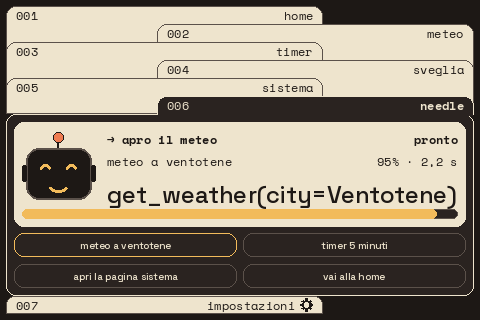
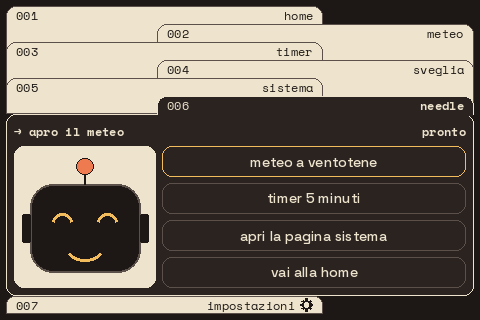
Needle: togli il pannello della frase e allarga bot e bottoni
Claude-Session: https://claude.ai/code/session_01WWnpzY7QcYTMKwWAA59yd3

diff --git a/dash/render/pages/needle.py b/dash/render/pages/needle.py
@@ -1,8 +1,9 @@
-"""Needle: stato del servizio, ultima frase con la funzione riconosciuta e frasi da provare.
+"""Needle: stato del servizio, esito dell'ultima frase, bot e frasi da provare.
 
-Pannello in alto (bot, stato, frase, funzione, barra della confidenza) e in basso i bottoni con
-le frasi di `needle.queries`. Il bot (`render/bot.py`) mostra l'umore del widget: pronto, penso,
-fatto, dubbio, errore, offline. `hits` restituisce gli stessi rettangoli del disegno.
+In alto una riga con cosa ha fatto il dashboard (a sinistra) e lo stato del servizio (a destra);
+sotto, a sinistra, il bot nel pannello colorato dallo stato e, a destra, i bottoni con le frasi
+di `needle.queries`. Il bot (`render/bot.py`) mostra l'umore del widget: pronto, penso, fatto,
+dubbio, errore, offline. `hits` restituisce gli stessi rettangoli del disegno.
 """
 from __future__ import annotations
 
@@ -18,62 +19,51 @@ from .new import chips
 if TYPE_CHECKING:
     from ...app import App
 
-BAR_H = 10  # barra della confidenza (pixel a 480×320)
+LABEL_H = 12      # riga dell'intestazione (pixel a 480×320, corpo di `cv.label`)
+BOT_W = 0.4       # larghezza massima del pannello del bot, in frazioni della pagina
 
 
 def _geometry(b: Box, u: float) -> tuple[Box, Box]:
-    """Pannello dell'esito e area dei bottoni: stessa geometria per disegno e tocco."""
+    """Pannello del bot e colonna dei bottoni: stessa geometria per disegno e tocco."""
     g = px(GRID.gap, u)
-    top = Box(b.x, b.y, b.w, round(b.h * 0.63))
-    return top, Box(b.x, top.bottom + g, b.w, b.bottom - top.bottom - g)
+    y = b.y + px(LABEL_H, u) + 2 * g
+    h = b.bottom - y
+    side = min(h, round(b.w * BOT_W))
+    panel = Box(b.x, y, side, h)
+    return panel, Box(panel.right + g, y, b.right - panel.right - g, h)
 
 
 def hits(b: Box, widget: Any, u: float) -> list[tuple[Box, str]]:
-    """Un bottone per frase, due per riga."""
+    """Un bottone per frase: una colonna fino a quattro frasi, poi due per riga."""
     grid = _geometry(b, u)[1]
-    return [(cb, f"q:{i}") for i, cb in enumerate(chips(grid, len(widget.queries), u, per_row=2))]
+    n = len(widget.queries)
+    return [(cb, f"q:{i}") for i, cb in enumerate(chips(grid, n, u, per_row=1 if n <= 4 else 2))]
 
 
 def draw(cv: Canvas, b: Box, app: App, now: datetime) -> None:
     w: Any = app.page.widget
     online, busy, last = w.snapshot()
-    top, _ = _geometry(b, cv.u)
+    panel, _ = _geometry(b, cv.u)
     pad = cv.pad
+    # intestazione: a sinistra cosa ha fatto il dashboard con l'ultima frase, a destra lo stato
+    esito = last.esito if last else ""
+    if esito:
+        cv.label((b.x, b.y), "→ " + esito, "cream", bold=True)
+    elif last is None:
+        cv.label((b.x, b.y), "servizio spento: systemctl start needle" if online is False else
+                 "tocca una frase per provare", "tan")
+    else:
+        cv.label((b.x, b.y), "needle · function calling", "tan")
+    cv.label((b.right, b.y), w.stato(), "cream", "ra", bold=True)
+    # il bot, quadrato e centrato nel pannello colorato dallo stato
     bg = "orange" if busy else ("cream" if online else "tan")
-    cv.rect(top, bg)
-    # barra della confidenza in fondo al pannello
-    bar = Box(top.x + pad, top.bottom - pad - cv.px(BAR_H), top.w - 2 * pad, cv.px(BAR_H))
-    conf = last.confidenza if last and last.confidenza is not None else 0.0
-    cv.progress(bar, conf, "amber", track="panel", outline="line", show_empty=False)
-    # il bot a sinistra (quadrato, alto quanto il pannello sopra la barra), il testo a destra
-    lato = bar.y - cv.gap - (top.y + pad)
-    mascotte = Box(top.x + pad, top.y + pad, lato, lato)
+    cv.rect(panel, bg)
+    lato = min(panel.w, panel.h) - 2 * pad
+    mascotte = Box(round(panel.x + (panel.w - lato) / 2), round(panel.y + (panel.h - lato) / 2),
+                   lato, lato)
     umore = w.umore()
     bot.draw(cv, mascotte, umore, 0.0, bg)
     cv.add_fx("bot", mascotte.rect, bg=bg, extra=(float(bot.MOODS.index(umore)),))
-    sx = mascotte.right + 2 * cv.gap
-    # intestazione: a sinistra cosa ha fatto il dashboard con l'ultima frase, se ha fatto qualcosa;
-    # a destra lo stato
-    esito = last.esito if last else ""
-    cv.label((sx, top.y + pad), "→ " + esito if esito else "needle · function calling",
-             "ink", bold=bool(esito))
-    cv.label((top.right - pad, top.y + pad), w.stato(), "ink", "ra", bold=True)
-    head = cv.height(cv.f_label) + cv.gap
-    body = Box(sx, top.y + pad + head, top.right - pad - sx, bar.y - cv.gap - (top.y + pad + head))
-    if last is None:
-        msg = "servizio spento: systemctl start needle" if online is False else \
-              "tocca una frase per provare"
-        cv.label((body.x, body.y), msg, "ink")
-    else:
-        # frase (a sinistra) e tempo di risposta (a destra), poi la funzione in grande
-        line = cv.height(cv.f_label) + cv.gap
-        tempo = f"{last.confidenza * 100:.0f}% · {last.ms / 1000:.1f} s".replace(".", ",") \
-            if last.confidenza is not None else f"{last.ms / 1000:.1f} s".replace(".", ",")
-        cv.label((body.x, body.y), last.domanda, "ink")
-        cv.label((body.right, body.y), tempo, "ink", "ra", lower=False)
-        esito = " · ".join(last.chiamate) or last.errore or "nessuna funzione"
-        area = Box(body.x, body.y + line, body.w, body.h - line)
-        cv.big(area, esito, "ink")
     # frasi da provare: la scelta da tastiera ha il bordo ambra, l'ultima toccata è rosa
     boxes = hits(b, w, cv.u)
     if not boxes:

diff --git a/tests/test_bot.py b/tests/test_bot.py
@@ -119,8 +119,13 @@ class TestPaginaNeedle(unittest.TestCase):
         app.renderer.render(app, NOW)
         boxes = needle.hits(app.renderer.content_inner(app), w, unit(480, 320))
         self.assertEqual(len(boxes), len(w.queries))
-        panel_bottom = needle._geometry(app.renderer.content_inner(app), unit(480, 320))[0].bottom
-        self.assertTrue(all(b.y >= panel_bottom for b, _ in boxes))
+        page = app.renderer.content_inner(app)
+        panel = needle._geometry(page, unit(480, 320))[0]
+        # i bottoni stanno a destra del pannello del bot, dentro la pagina
+        self.assertTrue(all(b.x >= panel.right and b.right <= page.right and b.bottom <= page.bottom
+                            for b, _ in boxes))
+        bot_box = next(e.box for e in app.renderer.fx if e.kind == "bot")
+        self.assertGreater(bot_box[3] - bot_box[1], page.h * 0.6)    # il bot è grande
         app.close()
 
 

diff --git a/README.md b/README.md
@@ -53,7 +53,7 @@ computer di bordo.
 | 003 | Timer | a scelta | conto alla rovescia composto con i bottoni; 5′ = sequenza di partenza |
 | 004 | Sveglia | a scelta | prossima sveglia, stato, sveglie per giorno della settimana |
 | 005 | Sistema | sempre | CPU, RAM, disco, storici di CPU e rete, host, IP, temperatura, uptime |
-| 006 | Needle | a scelta | modello locale [Needle](https://github.com/cactus-compute/needle) (function calling): frasi da provare, funzione riconosciuta con la confidenza ed esecuzione (avvia il timer, imposta la sveglia, apre una pagina, accende e regola le luci Philips Hue) |
+| 006 | Needle | a scelta | modello locale [Needle](https://github.com/cactus-compute/needle) (function calling): bot che mostra lo stato del modello, frasi da provare ed esecuzione (avvia il timer, imposta la sveglia, apre una pagina, accende e regola le luci Philips Hue) |
 | ⚙ | Impostazioni | sempre | schede opzionali, luminosità, calibrazione del tocco, spegnimento, grafico della tensione di alimentazione |
 
 | 001 · Home | 002 · Meteo |

diff --git a/docs/decisioni.md b/docs/decisioni.md
@@ -51,6 +51,8 @@ le regole operative stanno in [CLAUDE.md](../CLAUDE.md).
 - Bot di Needle (`render/bot.py`): una funzione disegna la faccia sia ferma (pagina base, `t = 0`)
   sia animata (effetto `bot` di `effects.draw_fx`), così la geometria è una sola. L'umore viene
   da `NeedleWidget.umore()` e fa parte di `state_key`; la faccia dell'esito dura 6 s (`RECENTE_S`).
+  La scheda non mostra più frase, funzione e confidenza: lo spazio va al bot (a sinistra, alto
+  quanto la pagina) e ai bottoni delle frasi (a destra); resta una riga con esito e stato.
 - Azioni di Needle (`dash/azioni.py`): il modello propone, il dashboard decide. Il thread della
   richiesta non tocca mai il dashboard: mette le chiamate in coda (`NeedleWidget.take_calls`) e le
   esegue `App.step` nel ciclo principale, dove si cambiano pagine e widget. Solo le funzioni di

diff --git a/docs/installazione.md b/docs/installazione.md
@@ -335,7 +335,7 @@ dalla rete locale.
    `function_calls`, `confidence` e i tempi. Controllo: `systemctl status needle`.
 4. Nelle Impostazioni tocca `+ needle`: compare la scheda **Needle**, con lo stato del servizio
    (pronto, penso…, offline) e quattro bottoni, uno per frase di `needle.queries`. Il tocco invia
-   la frase, mostra la funzione riconosciuta con la confidenza e la esegue (vedi sotto). Con i
+   la frase, la esegue (vedi sotto) e scrive in alto cosa ha fatto; il bot ne mostra l'esito. Con i
    pulsanti GPIO: B sceglie la frase, A la invia.
 
 **Cosa fa il dashboard con la risposta.** Se la confidenza è sufficiente la funzione riconosciuta
